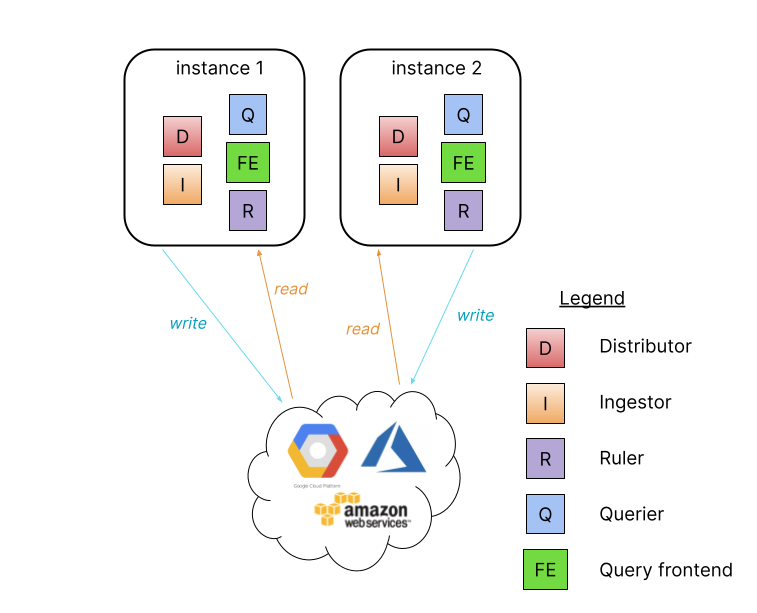
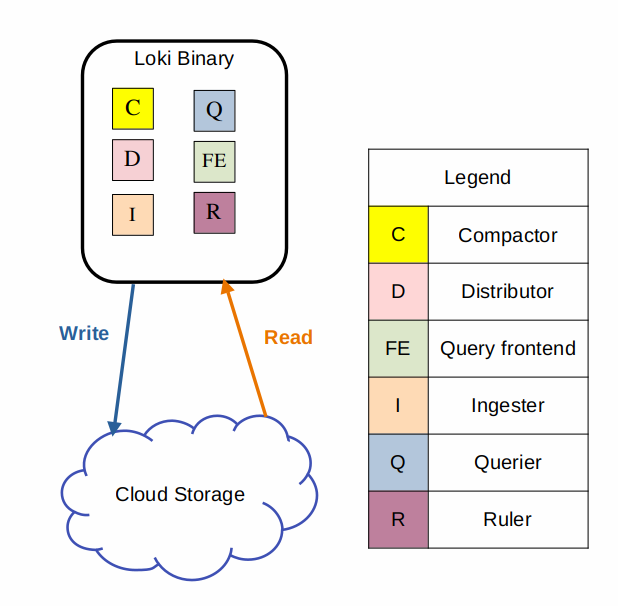
[docs] Update deployment modes topic and graphics

diff --git a/docs/sources/get-started/deployment-modes.md b/docs/sources/get-started/deployment-modes.md
@@ -8,101 +8,81 @@ aliases:
 ---
 # Loki deployment modes
 
-As an application, 
-Loki is built out of many component microservices,
-and is designed to run as a horizontally-scalable distributed system.
-Loki's unique design compiles the code of the entire distributed system into
-a single binary or Docker image.
-The behavior of that single binary is controlled with
-the `-target` command-line flag and defines one of three modes of operation.
+Loki has many component microservices, and is designed to run as a horizontally-scalable distributed system. The Loki binary and Docker image include all of the Loki component microservices, letting you customize how you deploy Loki.
 
-Configuration for each deployed instance of the binary
-further specifies which components it runs.
+You can configure the behavior of the single binary with the `-target` command-line flag to specify which microservices will run on startup. You can further configure each of the components in the `loki.yaml` file.
 
-Loki is designed to easily redeploy a cluster under a different mode
-as your needs change,
-with no configuration changes or minimal configuration changes.
+As Loki stores indexes and chunks separately, you can easily redeploy a cluster under a different mode as your needs change, with minimal or no configuration changes.
+
+## Scalable monolithic deployment mode
+
+Scalable monolithic mode, previously referred to as a simple scalable deployment (SSD), is the preferred way to deploy Loki for most installations. The scalable monolithic deployment is the default configuration installed by the [Loki Helm Chart]({{< relref "../setup/install/helm" >}}). This deployment mode is the easiest way to deploy Loki at scale. It strikes a balance between deploying in [monolithic mode](#monolithic-mode) or deploying each component as a [separate microservice](#microservices-mode).
+
+Loki’s scalable monolithic deployment mode separates execution paths into read, write, and backend targets. These targets can be scaled independently, letting you customize your Loki deployment to meet your business needs for log ingestion and log query so that your infrastructure costs better match how you use Loki.
+
+The scalable monolithic deployment mode can scale to several TBs of logs per day and more.
+
+![Scalable monolithic mode diagram](../monolithic-mode.png "Scalable monolithic mode")
+
+The three execution paths in scalable monolithic mode are each activated by appending the following arguments to Loki on startup:
+
+- `-target=write` - The write target is stateful and is controlled by a Kubernetes StatefulSet. It contains the following components:
+-- Distributor
+-- Ingester
+- `-target=read` - The read target is stateless and can be run as a Kubernetes Deployment that can be scaled automatically. It contains the following components:
+-- Query front end
+-- Queriers
+- `-target=backend` - The backend target is stateful, and is controlled by a Kubernetes StatefulSet. Contains the following components:
+-- Compactor
+-- Index gateways
+-- Query scheduler
+-- Ruler
+
+The scalable monolithic deployment mode requires a reverse proxy to be deployed in front of Loki, to direct client API requests to either the read or write nodes. The Loki Helm chart includes a default reverse proxy configuration, using Nginx.
 
 ## Monolithic mode
 
-The simplest mode of operation sets `-target=all`.
-This is the default target,
-and it does not need to be specified.
-This is monolithic mode;
-it runs all of Loki’s microservice components inside a single process
-as a single binary or Docker image.
+The simplest mode of operation is monolithic mode. You enable monolithic mode by setting the `-target=all` command line parameter. This mode runs all of Loki’s microservice components inside a single process as a single binary or Docker image.
 
-![monolithic mode diagram](../monolithic-mode.png  "Monolithic mode")
+![monolithic mode diagram](../monolithic-mode.png "Monolithic mode")
 
-Monolithic mode is useful for getting started quickly to experiment with Loki,
-as well as for small read/write volumes of up to approximately 100GB per day.
+Monolithic mode is useful for getting started quickly to experiment with Loki, as well as for small read/write volumes of up to approximately 100GB per day.
 
-Horizontally scale up a monolithic mode deployment to more instances
-by using a shared object store, and by configuring the
-[`ring` section]({{< relref "../configure#common" >}})
-to share state between all instances.
+You can horizontally scale a monolithic mode deployment to more instances by using a shared object store, and by configuring the [`ring` section]({{< relref "../configure#common" >}}) of the `loki.yaml` file to share state between all instances, but the recommendation is to use scalable monolithic mode if you need to scale your deployment.
 
-High availability can be configured by running two Loki instances
-using `memberlist_config` configuration and a shared object store.
+You can configure high availability by running two Loki instances using `memberlist_config` configuration and a shared object store. You route traffic to all the Loki instances in a round robin fashion.
 
-Route traffic to all the Loki instances in a round robin fashion.
-
-Query parallelization is limited to the quantity of instances
-and the query parallelism defined.
-
-## Simple scalable deployment mode
-
-If your volume of logs exceeds a few hundred GB a day,
-or if you would like to separate read and write concerns,
-Loki provides the simple scalable deployment mode.
-This deployment mode can scale to several TBs of logs per day and more.
-Consider the microservices mode approach for very large Loki installations.
-
-![Simple scalable deployment mode diagram](../simple-scalable.png "Simple scalable deployment mode")
-
-In this mode the component microservices of Loki are bundled into two targets:
-`-target=read` and `-target=write`.
-The BoltDB [compactor]({{< relref "../operations/storage/boltdb-shipper#compactor" >}}) 
-service will run as part of the read target.
-
-There are advantages to separating the read and write paths:
-
-* higher availability of write path by providing dedicated nodes
-* separately scalable read path to add/remove query performance on demand
-
-The simple scalable deployment mode requires a load balancer in front of Loki,
-which directs `/loki/api/v1/push` traffic to the write nodes.
-All other requests go to the read nodes.
-Traffic should be sent in a round robin fashion.
-
-The simple scalable deployment of Loki can scale to
-several TBs of logs per day and more.
+Query parallelization is limited by the number of instances and the setting `max_query_parallelism` which is defined in the `loki.yaml` file.
 
 ## Microservices mode
+The microservices deployment mode runs components of Loki as distinct processes. Each process is invoked specifying its `target`:
+For release 2.9 the components are:
 
-The microservices deployment mode instantiates components of Loki
-as distinct processes.
-Each process is invoked specifying its `target`:
+- Cache Generation Loader
+- Compactor
+- Distributor
+- Index-gateway
+- Ingester
+- Ingester-Querier
+- Overrides Exporter
+- Querier
+- Query-frontend
+- Query-scheduler
+- Ruler
+- Table Manager (deprecated)
 
-* ingester
-* distributor
-* query-frontend
-* query-scheduler
-* querier
-* index-gateway
-* ruler
-* compactor
+TIP: You can see the complete list of targets for your version of Loki by running Loki with the flag `-list-targets`, for example:
 
+```bash
+docker run docker.io/grafana/loki:2.9.0 -config.file=/etc/loki/local-config.yaml -list-targets
+```
 ![Microservices mode diagram](../microservices-mode.png "Microservices mode")
 
-Running components as individual microservices allows scaling up
-by increasing the quantity of microservices.
-The customized cluster has better observability of the individual components.
-Microservices mode deployments are the most efficient Loki installations.
-However, they are also the most complex to set up and maintain.
+Running components as individual microservices provides more granularity, letting you scale each component as individual microservices, to better match your specific use case.
 
-Microservices mode is recommended for very large Loki clusters
-or for clusters that require more control over scaling and cluster operations.
+Microservices mode deployments can be more efficient Loki installations. However, they are also the most complex to set up and maintain.
 
-Microservices mode works best with Kubernetes deployments.
-There are Jsonnet and distributed Helm chart installations.
+Microservices mode is only recommended for very large Loki clusters or for operators who need more precise control over scaling and cluster operations.
+
+Microservices mode is designed for Kubernetes deployments. 
+A [community-supported Helm chart](https://github.com/grafana/helm-charts/tree/main/charts/loki-distributed) is available for deploying Loki in microservices mode.

diff --git a/docs/sources/setup/install/helm/install-scalable/_index.md b/docs/sources/setup/install/helm/install-scalable/_index.md
@@ -15,7 +15,7 @@ keywords:
 
 This Helm Chart installation runs the Grafana Loki cluster within a Kubernetes cluster.
 
-If object storge is configured, this chart configures Loki to run `read` and `write` targets in a [scalable mode]({{< relref "../../../../get-started/deployment-modes#simple-scalable-deployment-mode" >}}), highly available architecture (3 replicas of each) designed to work with AWS S3 object storage. It will also configure meta-monitoring of metrics and logs.
+If object storge is configured, this chart configures Loki to run `read` and `write` targets in a [scalable mode]({{< relref "../../../../get-started/deployment-modes#scalable-monolithic-deployment-mode" >}}), highly available architecture (3 replicas of each) designed to work with AWS S3 object storage. It will also configure meta-monitoring of metrics and logs.
 
 It is not possible to run the scalable mode with the `filesystem` storage.
 

diff --git a/docs/sources/setup/size/_index.md b/docs/sources/setup/size/_index.md
@@ -17,7 +17,7 @@ keywords: []
 
 This tool helps to generate a Helm Charts `values.yaml` file based on specified
  expected ingestion, retention rate and node type. It will always configure a
- [scalable]({{< relref "../../get-started/deployment-modes#simple-scalable-deployment-mode" >}}) deployment. The storage needs to be configured after generation.
+ [scalable]({{< relref "../../get-started/deployment-modes#scalable-monolithic-deployment-mode" >}}) deployment. The storage needs to be configured after generation.
 
 <div id="app">
   <label>Node Type<i class="fa fa-question" v-on:mouseover="help='node'" v-on:mouseleave="help=null"></i></label>
